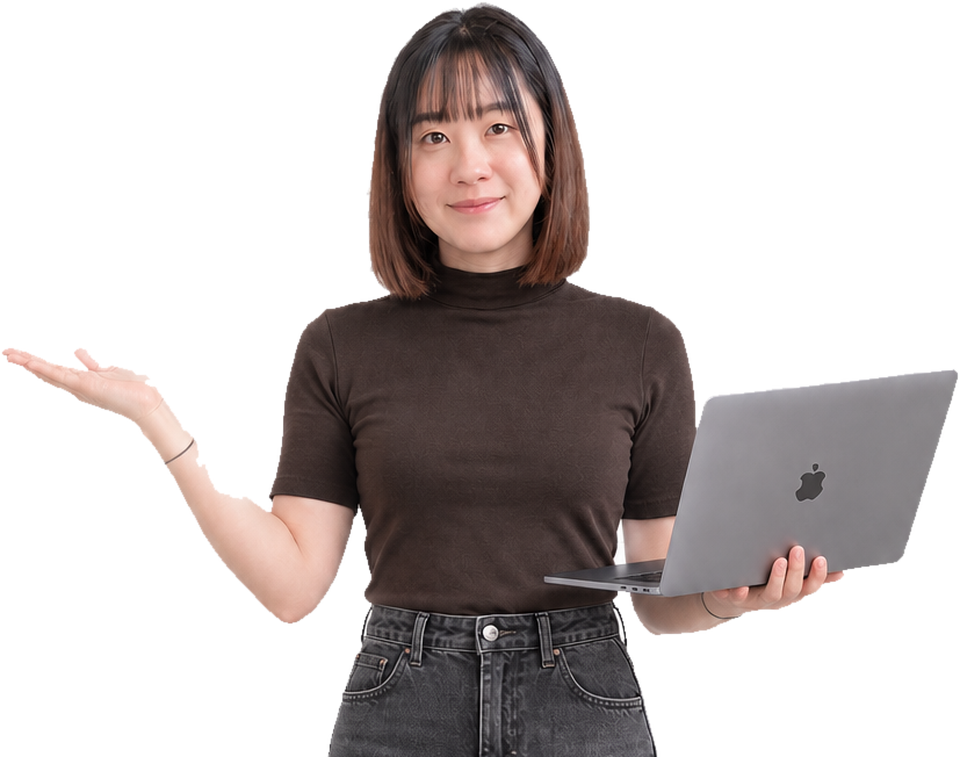
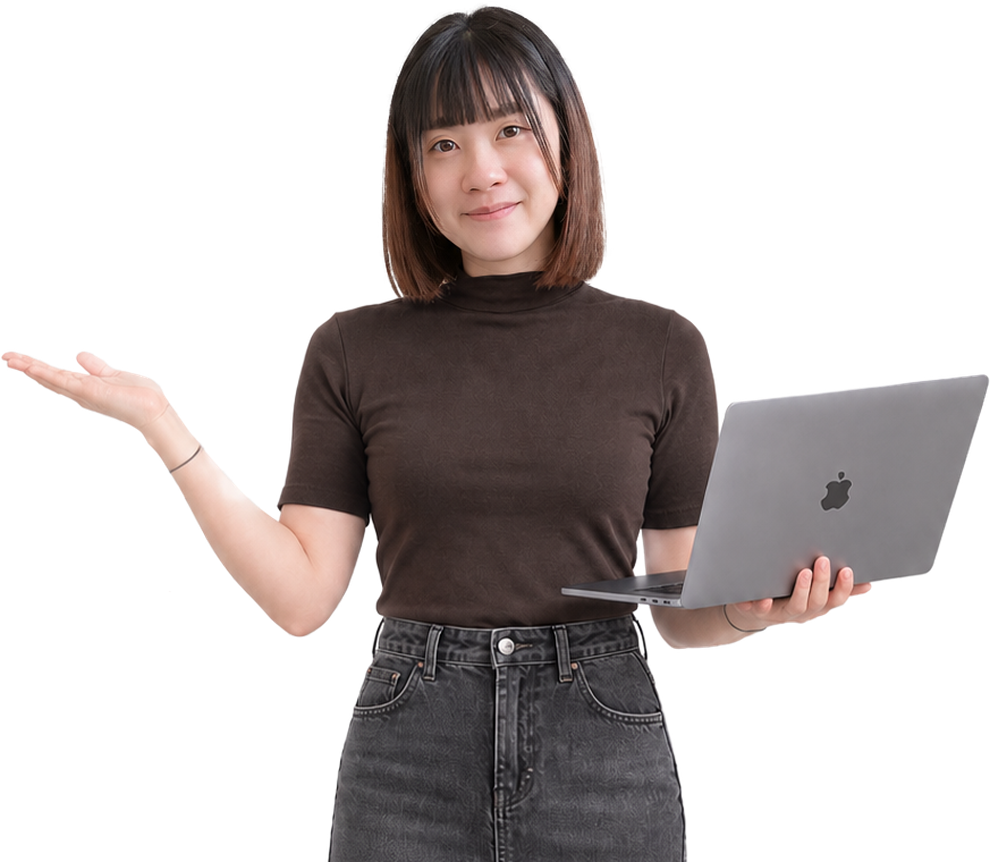
Hero 換成真正去背的版本，圓形縮小、人像放大
新的 Hero.png 是 RGBA、四角透明，不需要再自己去背。依透明區裁掉留白
後再裁到大腿上緣（避免只有腰部時人像過寬），縮到 990×862，桌機顯示
495×431，剛好 2 倍。

黃色圓形 inset 由 6% 4% 0 4% 改成 14% 12% 6% 12%（395×429 → 351×387），
人像寬度 112% → 115%（482×380 → 495×431），頭頂高出圓形 28px。

手機的人像受畫面寬度限制放不大，圓形在 640px 以下再縮一階
（20% 16% 10% 16%），頭頂高出 24px；人像 108% 維持零溢出。

Changed region(s): [[0.0, 0.0, 1.0, 1.0], [0.4062, 0.5469, 0.5, 0.6077]]

diff --git a/index.html b/index.html
@@ -159,7 +159,9 @@ a:hover{color:#6D4AFF}
  /* AI Lab 單欄疊起來有 8 張、近 4 個螢幕高，先收到 6 張 */
  [data-lab-grid]:not([data-expanded]) > [data-on="openLab"]:nth-child(n+7){display:none !important}
  /* 半身照在 375px 下用 112% 會超出畫面，縮一點仍保有破圖效果 */
- img[data-hero]{width:106% !important}
+ img[data-hero]{width:108% !important}
+ /* 手機的人像受限於畫面寬度，圓形再縮一點，頭才明顯凸出去 */
+ [data-hero-ring]{inset:20% 16% 10% 16% !important}
  /* 觸控目標補到 44px */
  [data-copybtn]{padding:12px !important}
  /* 主要閱讀段落與小標在手機上太小 */
@@ -244,7 +246,7 @@ a.sr-only:focus{position:fixed;top:12px;left:12px;width:auto;height:auto;margin:
 
       <div style="position:relative;min-width:0;display:flex;justify-content:center;align-items:center;padding:28px 0">
         <div style="position:relative;width:min(100%,430px);aspect-ratio:1/1.06">
-          <div style="position:absolute;inset:6% 4% 0 4%;background:#FFD34E;border:2px solid #14110F;border-radius:50%;transform:rotate(-4deg)"></div><img src="./assets/avatar.png" alt="張詩沂" data-hero width="960" height="757" fetchpriority="high" decoding="async" style="position:absolute;left:50%;bottom:0;transform:translateX(-50%);width:112%;height:auto;max-width:none;display:block;filter:drop-shadow(0 6px 14px rgba(20,17,15,.18))" />
+          <div data-hero-ring style="position:absolute;inset:14% 12% 6% 12%;background:#FFD34E;border:2px solid #14110F;border-radius:50%;transform:rotate(-4deg)"></div><img src="./assets/avatar.png" alt="張詩沂" data-hero width="990" height="862" fetchpriority="high" decoding="async" style="position:absolute;left:50%;bottom:0;transform:translateX(-50%);width:115%;height:auto;max-width:none;display:block;filter:drop-shadow(0 6px 14px rgba(20,17,15,.18))" />
           
 
           <div style="position:absolute;left:-5%;bottom:2%;background:#fff;border:2px solid #14110F;border-radius:999px;padding:11px 18px;box-shadow:4px 4px 0 #14110F;display:flex;align-items:center;gap:9px;animation:floaty 5.5s ease-in-out infinite">

diff --git a/build/assemble.py b/build/assemble.py
@@ -682,11 +682,13 @@ body = body[:_cs] + _seg + body[_ce:]
 # ---- Hero：放上去背照，站在黃色橢圓上、頭頂與肩膀破出圓形 ----
 _ellipse = ('<div style="position:absolute;inset:6% 4% 0 4%;background:#FFD34E;'
             'border:2px solid #14110F;border-radius:50%;transform:rotate(-4deg)"></div>')
+_ellipse_small = _ellipse.replace('inset:6% 4% 0 4%', 'inset:14% 12% 6% 12%')\
+                         .replace('<div style=', '<div data-hero-ring style=')
 assert body.count(_ellipse) == 1, '找不到 Hero 的黃色橢圓'
-body = body.replace(_ellipse, _ellipse +
-    '<img src="./assets/avatar.png" alt="張詩沂" data-hero width="960" height="757" '
+body = body.replace(_ellipse, _ellipse_small +
+    '<img src="./assets/avatar.png" alt="張詩沂" data-hero width="990" height="862" '
     'fetchpriority="high" decoding="async" '
-    'style="position:absolute;left:50%;bottom:0;transform:translateX(-50%);width:112%;'
+    'style="position:absolute;left:50%;bottom:0;transform:translateX(-50%);width:115%;'
     'height:auto;max-width:none;display:block;'
     'filter:drop-shadow(0 6px 14px rgba(20,17,15,.18))" />', 1)
 
@@ -899,7 +901,9 @@ doc = f"""<!DOCTYPE html>
  /* AI Lab 單欄疊起來有 8 張、近 4 個螢幕高，先收到 6 張 */
  [data-lab-grid]:not([data-expanded]) > [data-on="openLab"]:nth-child(n+7){{display:none !important}}
  /* 半身照在 375px 下用 112% 會超出畫面，縮一點仍保有破圖效果 */
- img[data-hero]{{width:106% !important}}
+ img[data-hero]{{width:108% !important}}
+ /* 手機的人像受限於畫面寬度，圓形再縮一點，頭才明顯凸出去 */
+ [data-hero-ring]{{inset:20% 16% 10% 16% !important}}
  /* 觸控目標補到 44px */
  [data-copybtn]{{padding:12px !important}}
  /* 主要閱讀段落與小標在手機上太小 */

diff --git a/build/verify.py b/build/verify.py
@@ -62,7 +62,9 @@ C = [
   ('SKILLS 十個 logo', len(re.findall(r'assets/logos/opt/', h)) == 10),
   ('Hero 去背照', has('./assets/avatar.png') and has('fetchpriority="high"')
                 and pathlib.Path('assets/avatar.png').exists()),
-  ('Hero 照片在手機不會撐破版面', has('img[data-hero]{width:106% !important}')),
+  ('Hero 黃色圓形已縮小', has('inset:14% 12% 6% 12%')
+                      and has('[data-hero-ring]{inset:20% 16% 10% 16% !important}')),
+  ('Hero 照片在手機不會撐破版面', bool(re.search(r'img\[data-hero\]\{width:\d+% !important\}', h))),
   ('站台 logo 與 favicon', has('assets/logo-84.png') and has('assets/favicon.png')),
   ('導覽列沒有用到 512px 原圖', absent('"./assets/logo.png"')),
   ('OG 分享圖為絕對網址', has('og:image" content="https://')),
